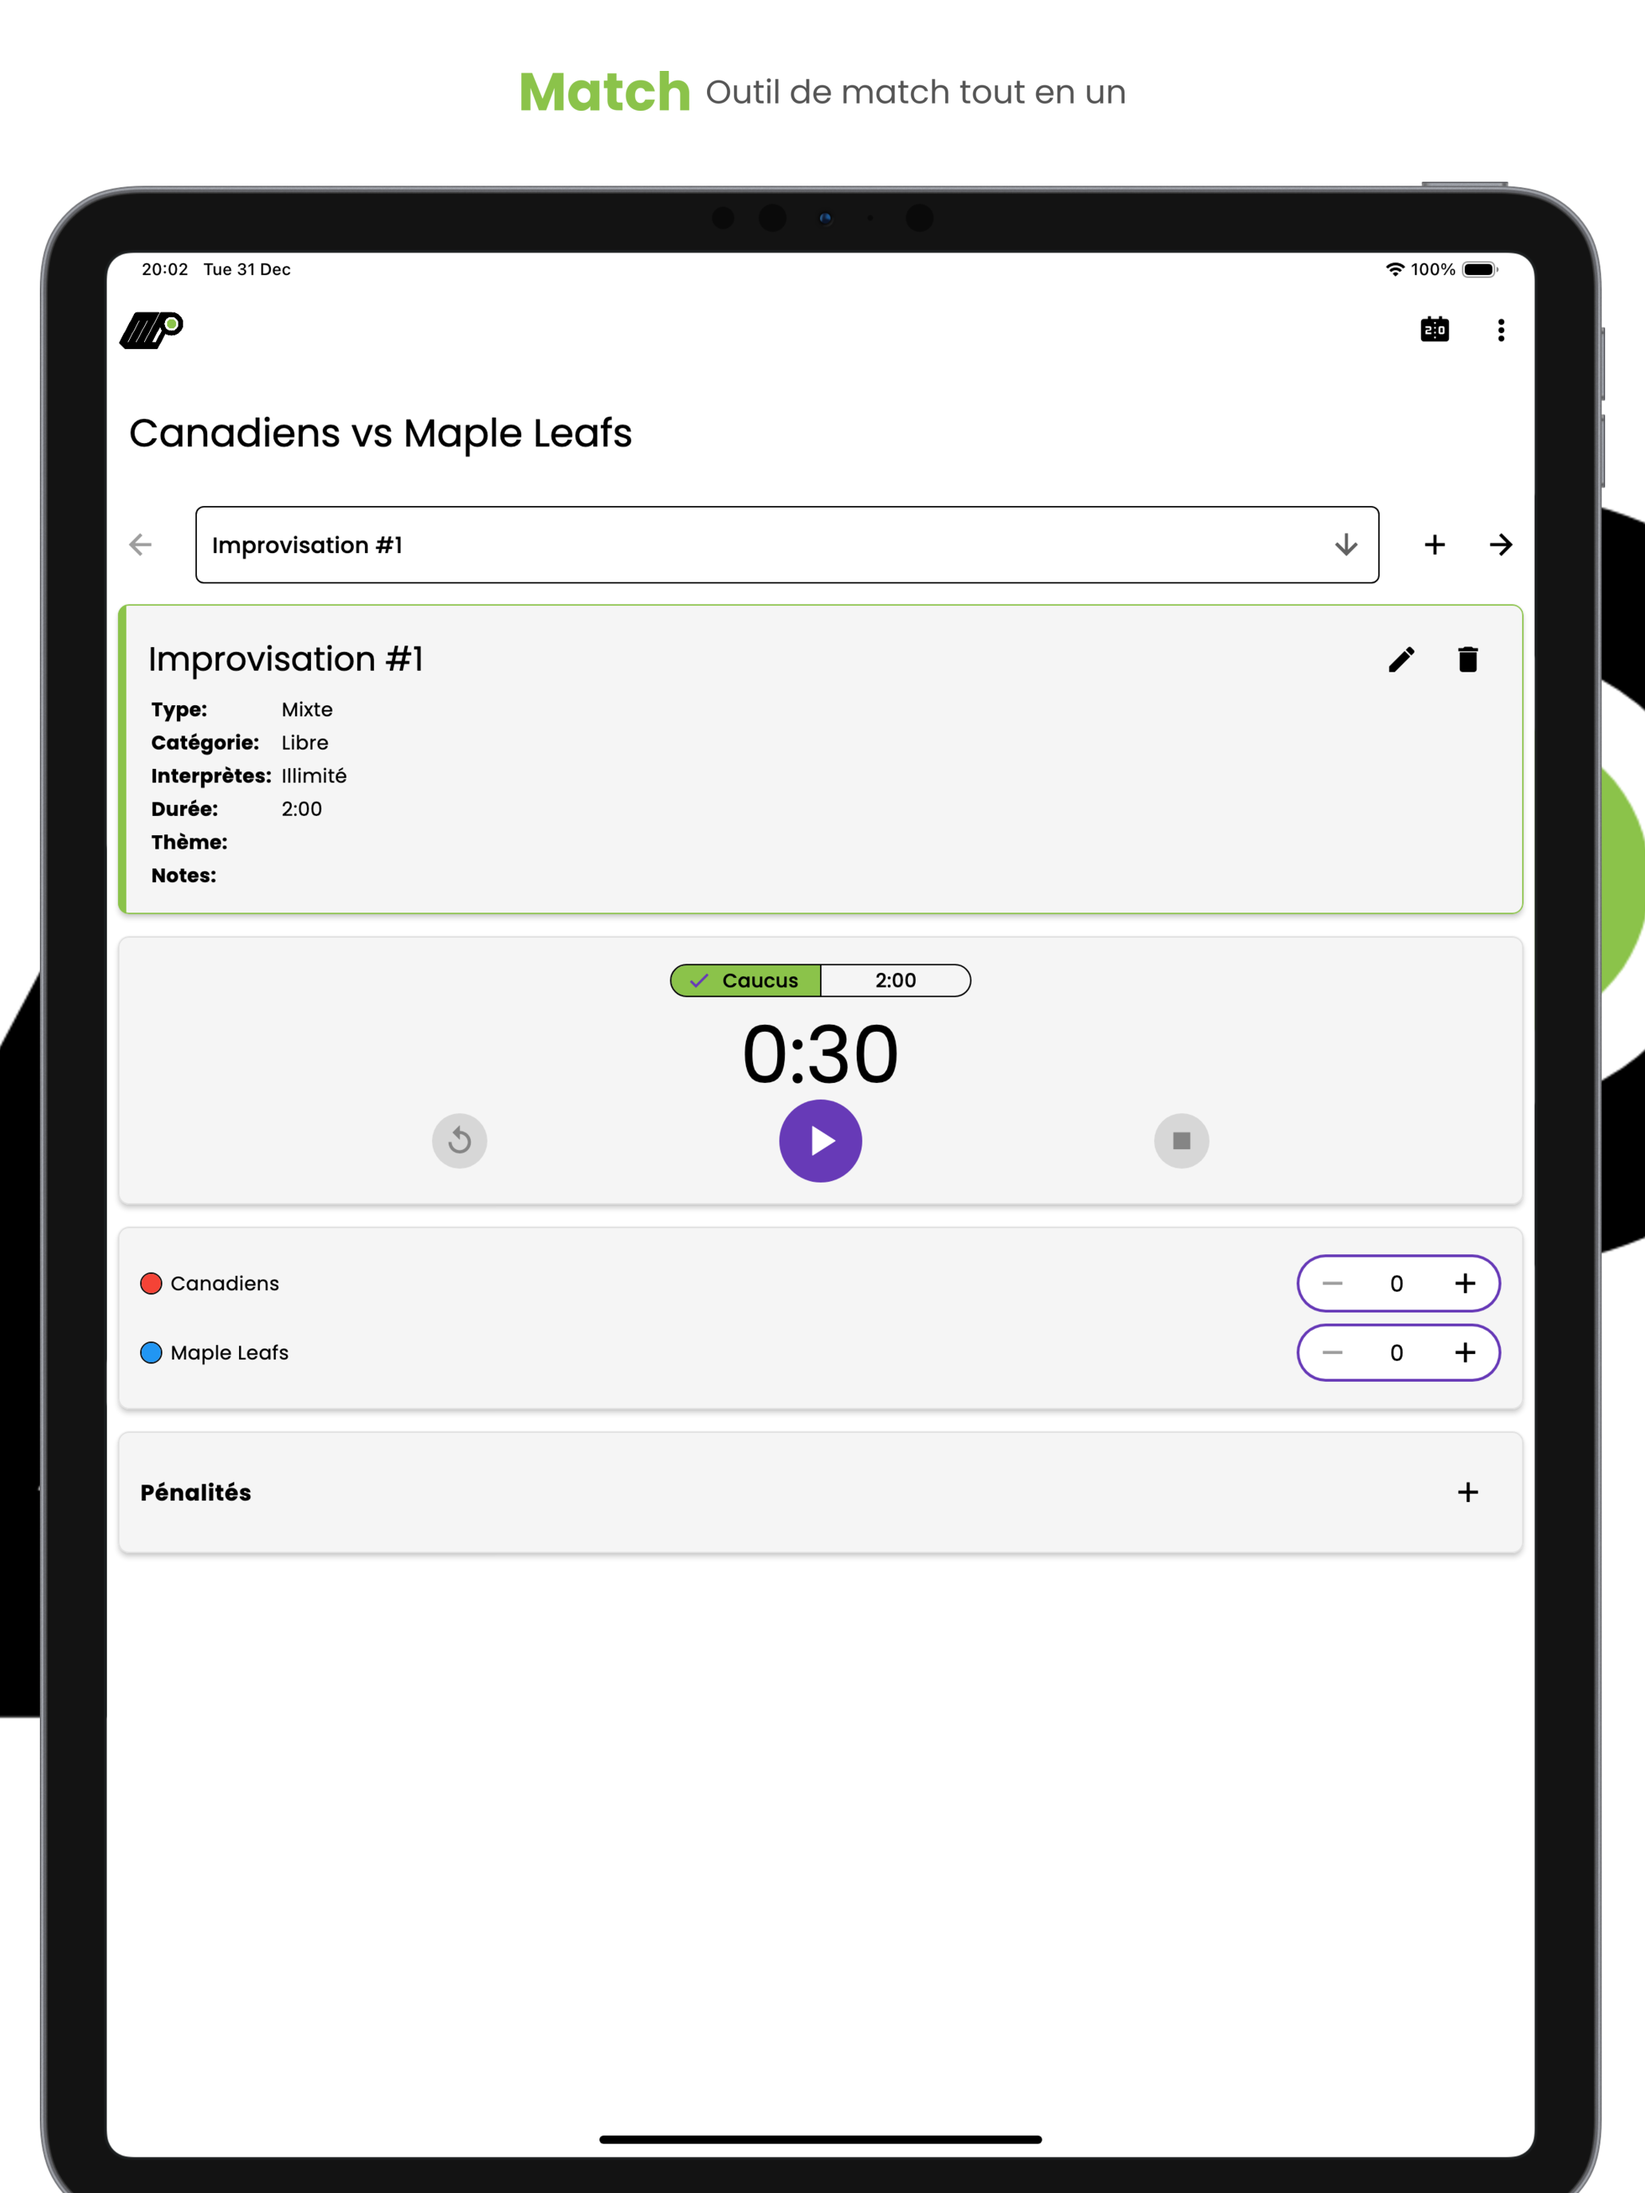
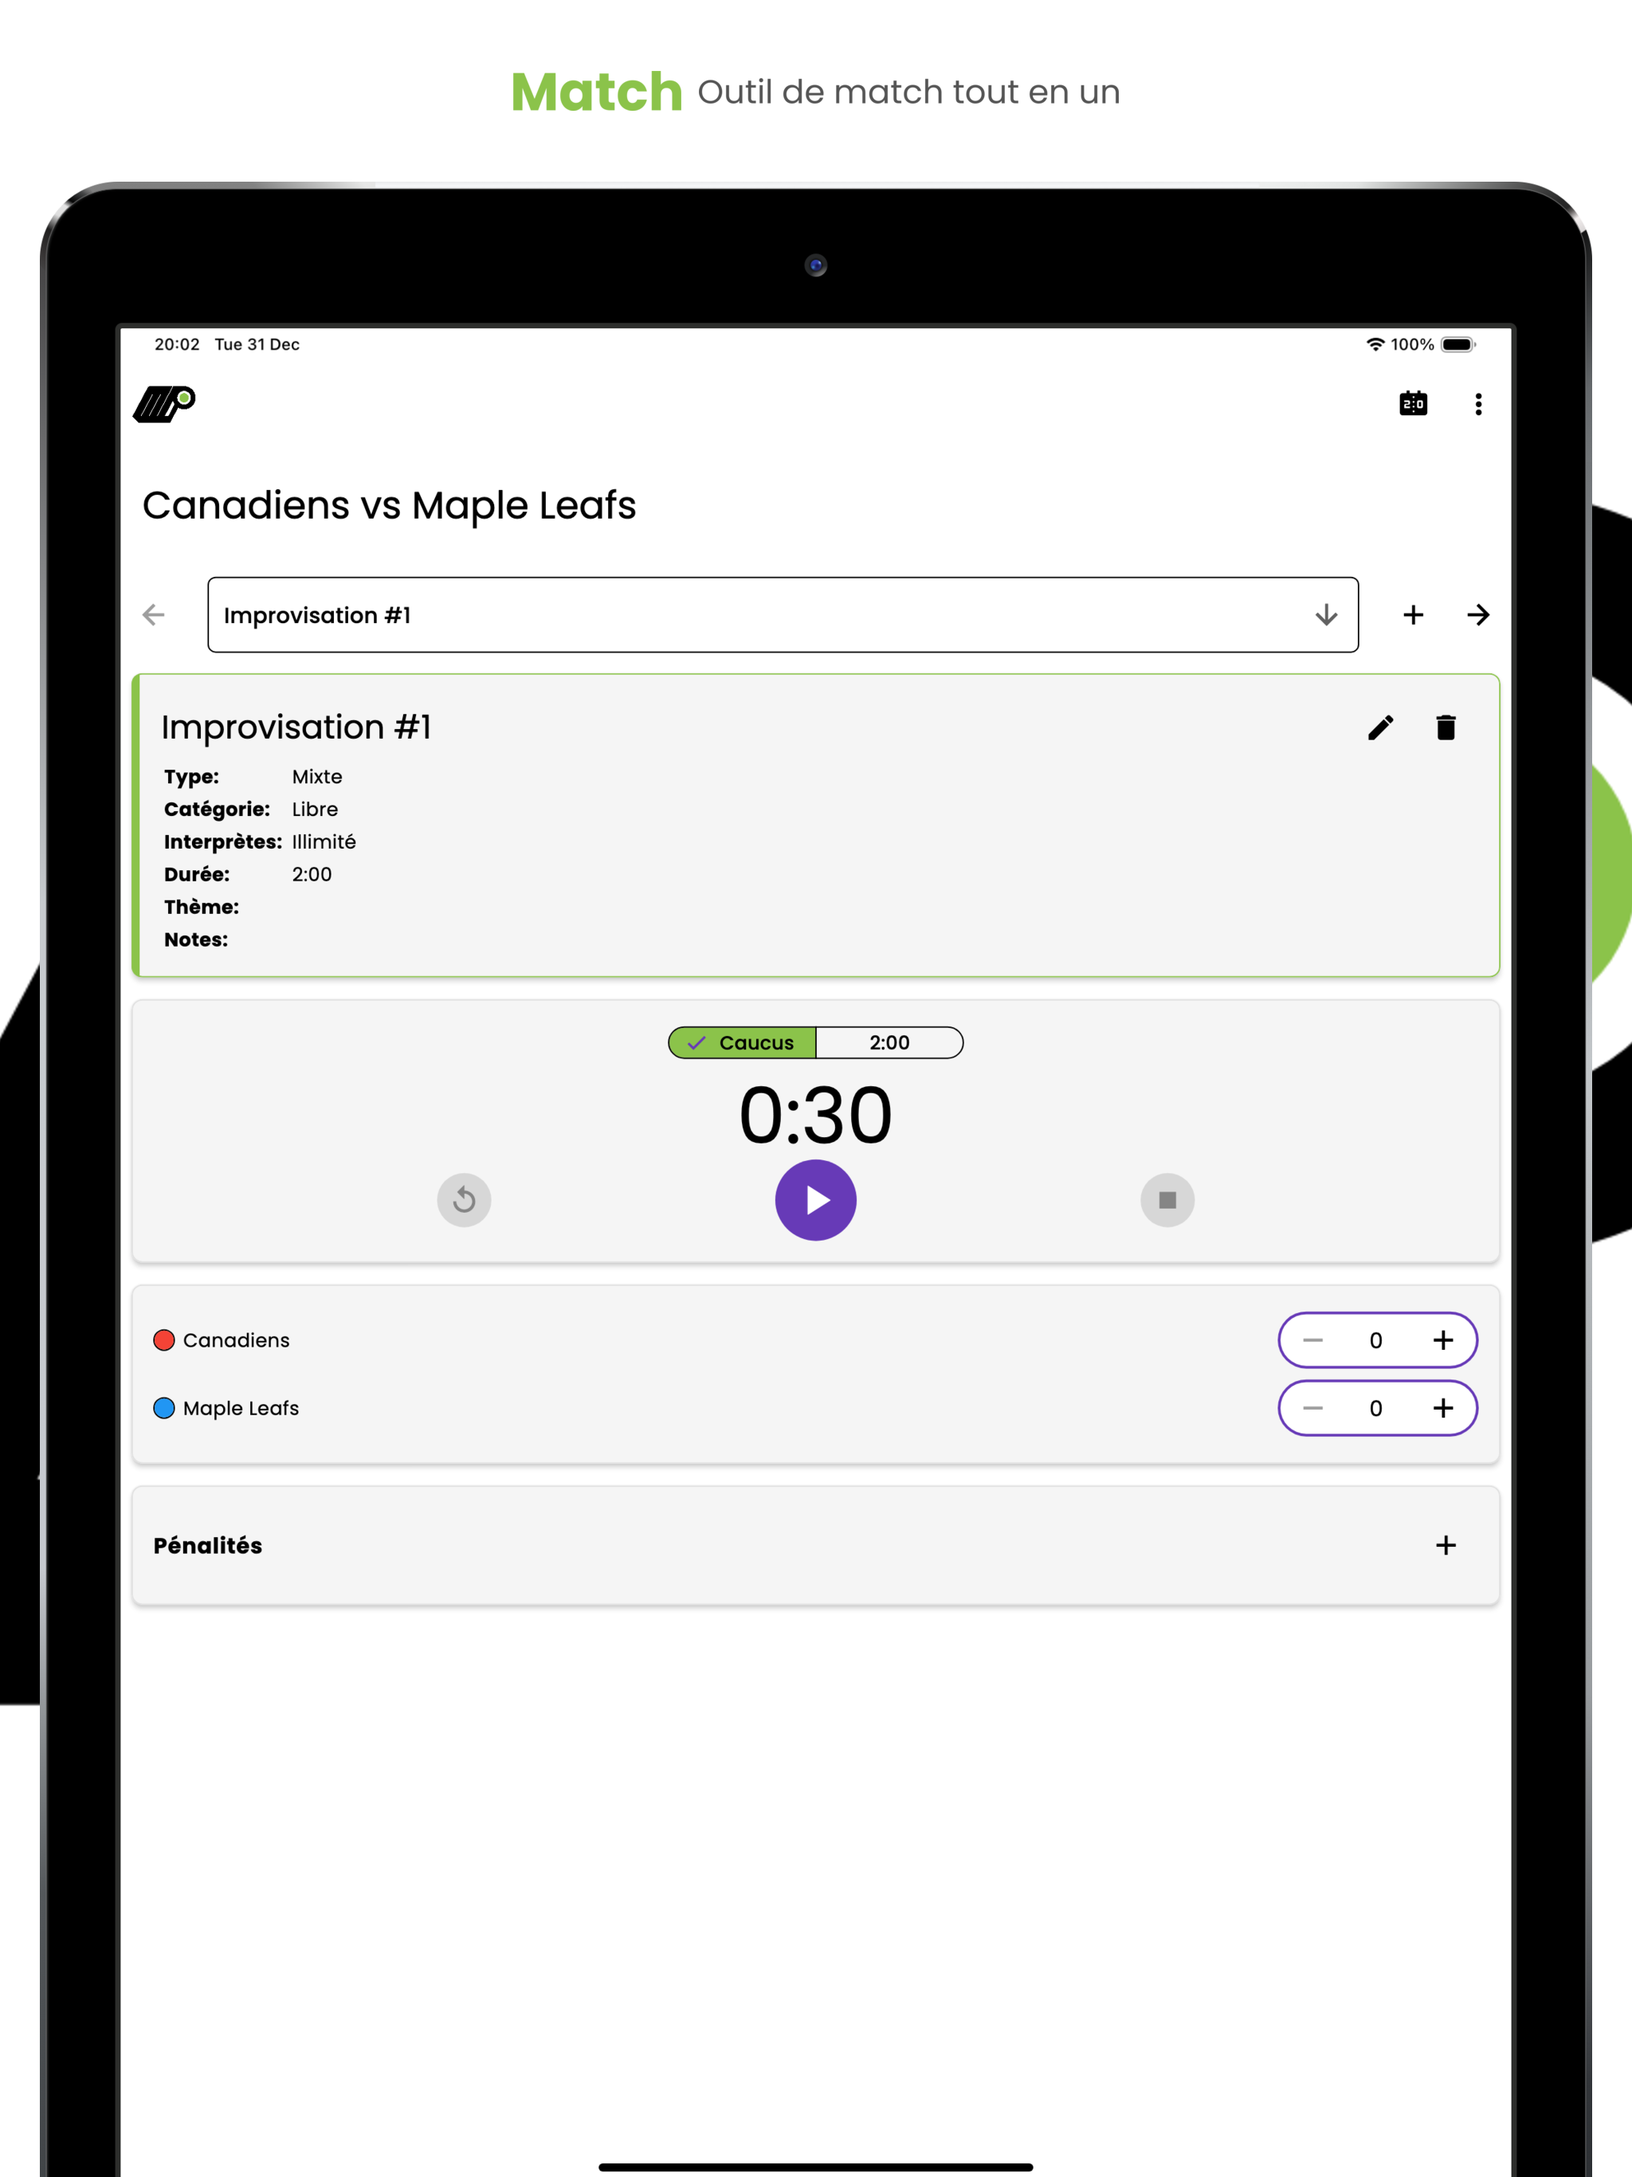
Update screenshots one more time

diff --git a/test/screenshots/generate_screenshots_test.dart b/test/screenshots/generate_screenshots_test.dart
@@ -241,6 +241,7 @@ void main() {
     final goldenDevices = [
       CustomGoldenScreenshotDevices.iPhone,
       CustomGoldenScreenshotDevices.iPad,
+      CustomGoldenScreenshotDevices.olderIPad,
     ];
 
     _screenshotWidget(
@@ -388,7 +389,8 @@ void _screenshotWidget({
             CustomGoldenScreenshotDevices.android7InchTablet => 'ANDROID_7_TABLET',
             CustomGoldenScreenshotDevices.androidPhone => 'ANDROID_PHONE',
             CustomGoldenScreenshotDevices.iPhone => 'IPHONE_69',
-            CustomGoldenScreenshotDevices.iPad => 'IPAD_PRO_3GEN_129',
+            CustomGoldenScreenshotDevices.iPad => 'IPAD_PRO_129',
+            CustomGoldenScreenshotDevices.olderIPad => 'IPAD_PRO_3GEN_129',
           };
 
           final fileName = '${goldenFileName}_${screenshotName}_${theme.name}_${storeLocale.toLanguageTag()}';

diff --git a/test/screenshots/screenshot_devices.dart b/test/screenshots/screenshot_devices.dart
@@ -58,6 +58,20 @@ enum CustomGoldenScreenshotDevices {
       goldenSubFolder: 'ios/',
       frameBuilder: ScreenshotFrame.newerIpad,
     ),
+  ),
+
+  /// iPad Pro 3rd GEN 12.9" (M1),
+  /// labelled on App Store Connect as iPad 13" Display.
+  ///
+  /// This is the newer type of iPad with thinner bezels and no home button.
+  olderIPad(
+    ScreenshotDevice(
+      platform: TargetPlatform.iOS,
+      resolution: Size(2048, 2732),
+      pixelRatio: 2,
+      goldenSubFolder: 'ios/',
+      frameBuilder: ScreenshotFrame.newerIpad,
+    ),
   );
 
   const CustomGoldenScreenshotDevices(this.device);
